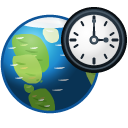
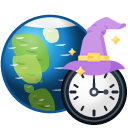
edited images, name and desciption

diff --git a/HTML/popup.html b/HTML/popup.html
@@ -10,7 +10,7 @@
 
 <div class="wrapper">
 
-    <div class="title unselectable">Time Zone Converter</div>
+    <div class="title unselectable">Time Wizard</div>
 
     <div class="toggleRow">
         <div class="toggleTextWrap">
